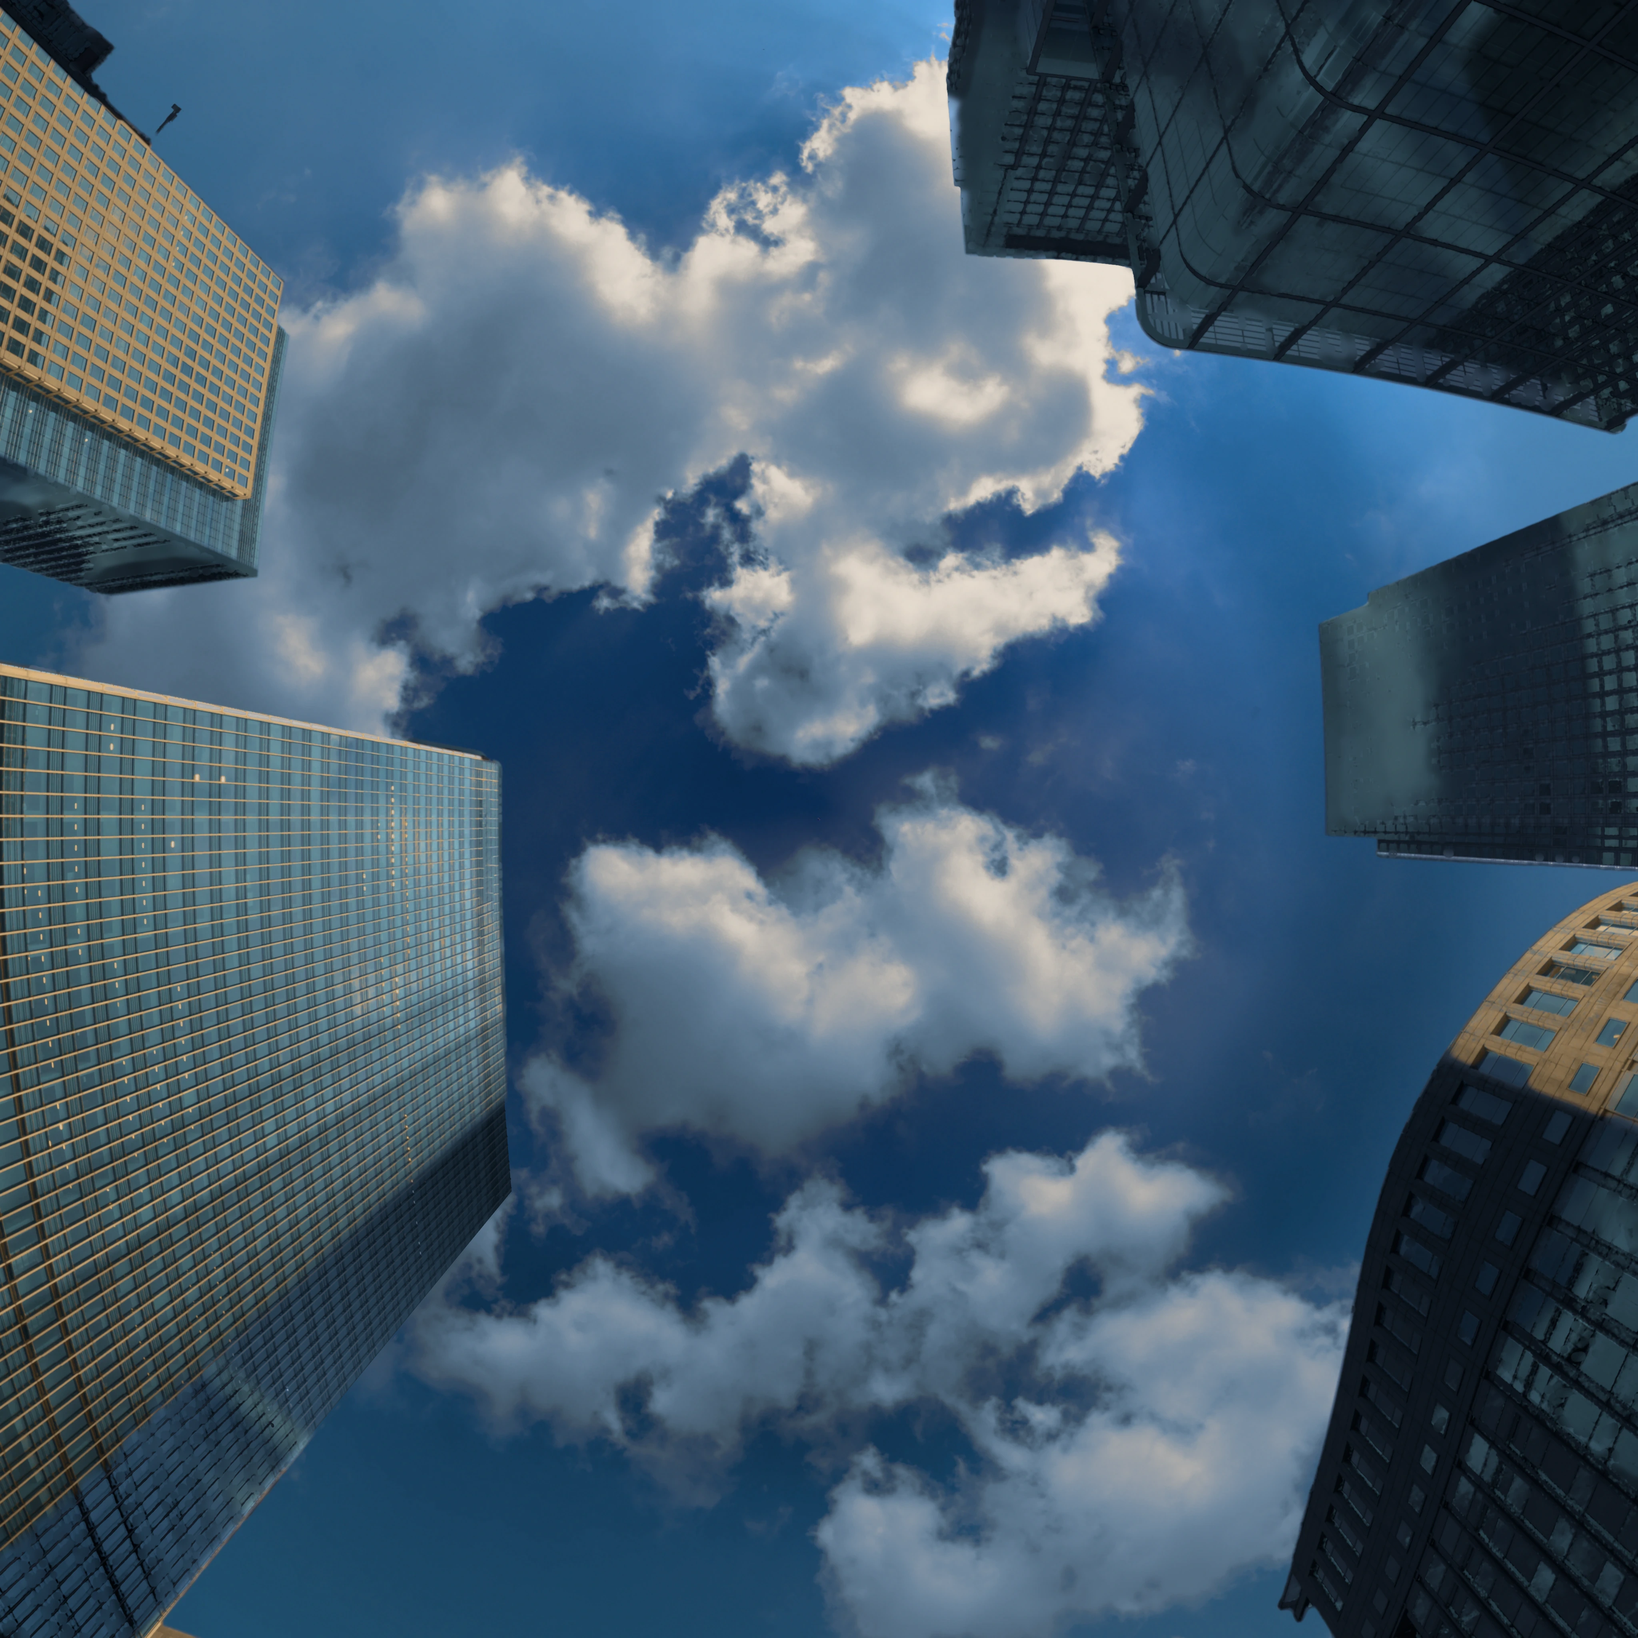
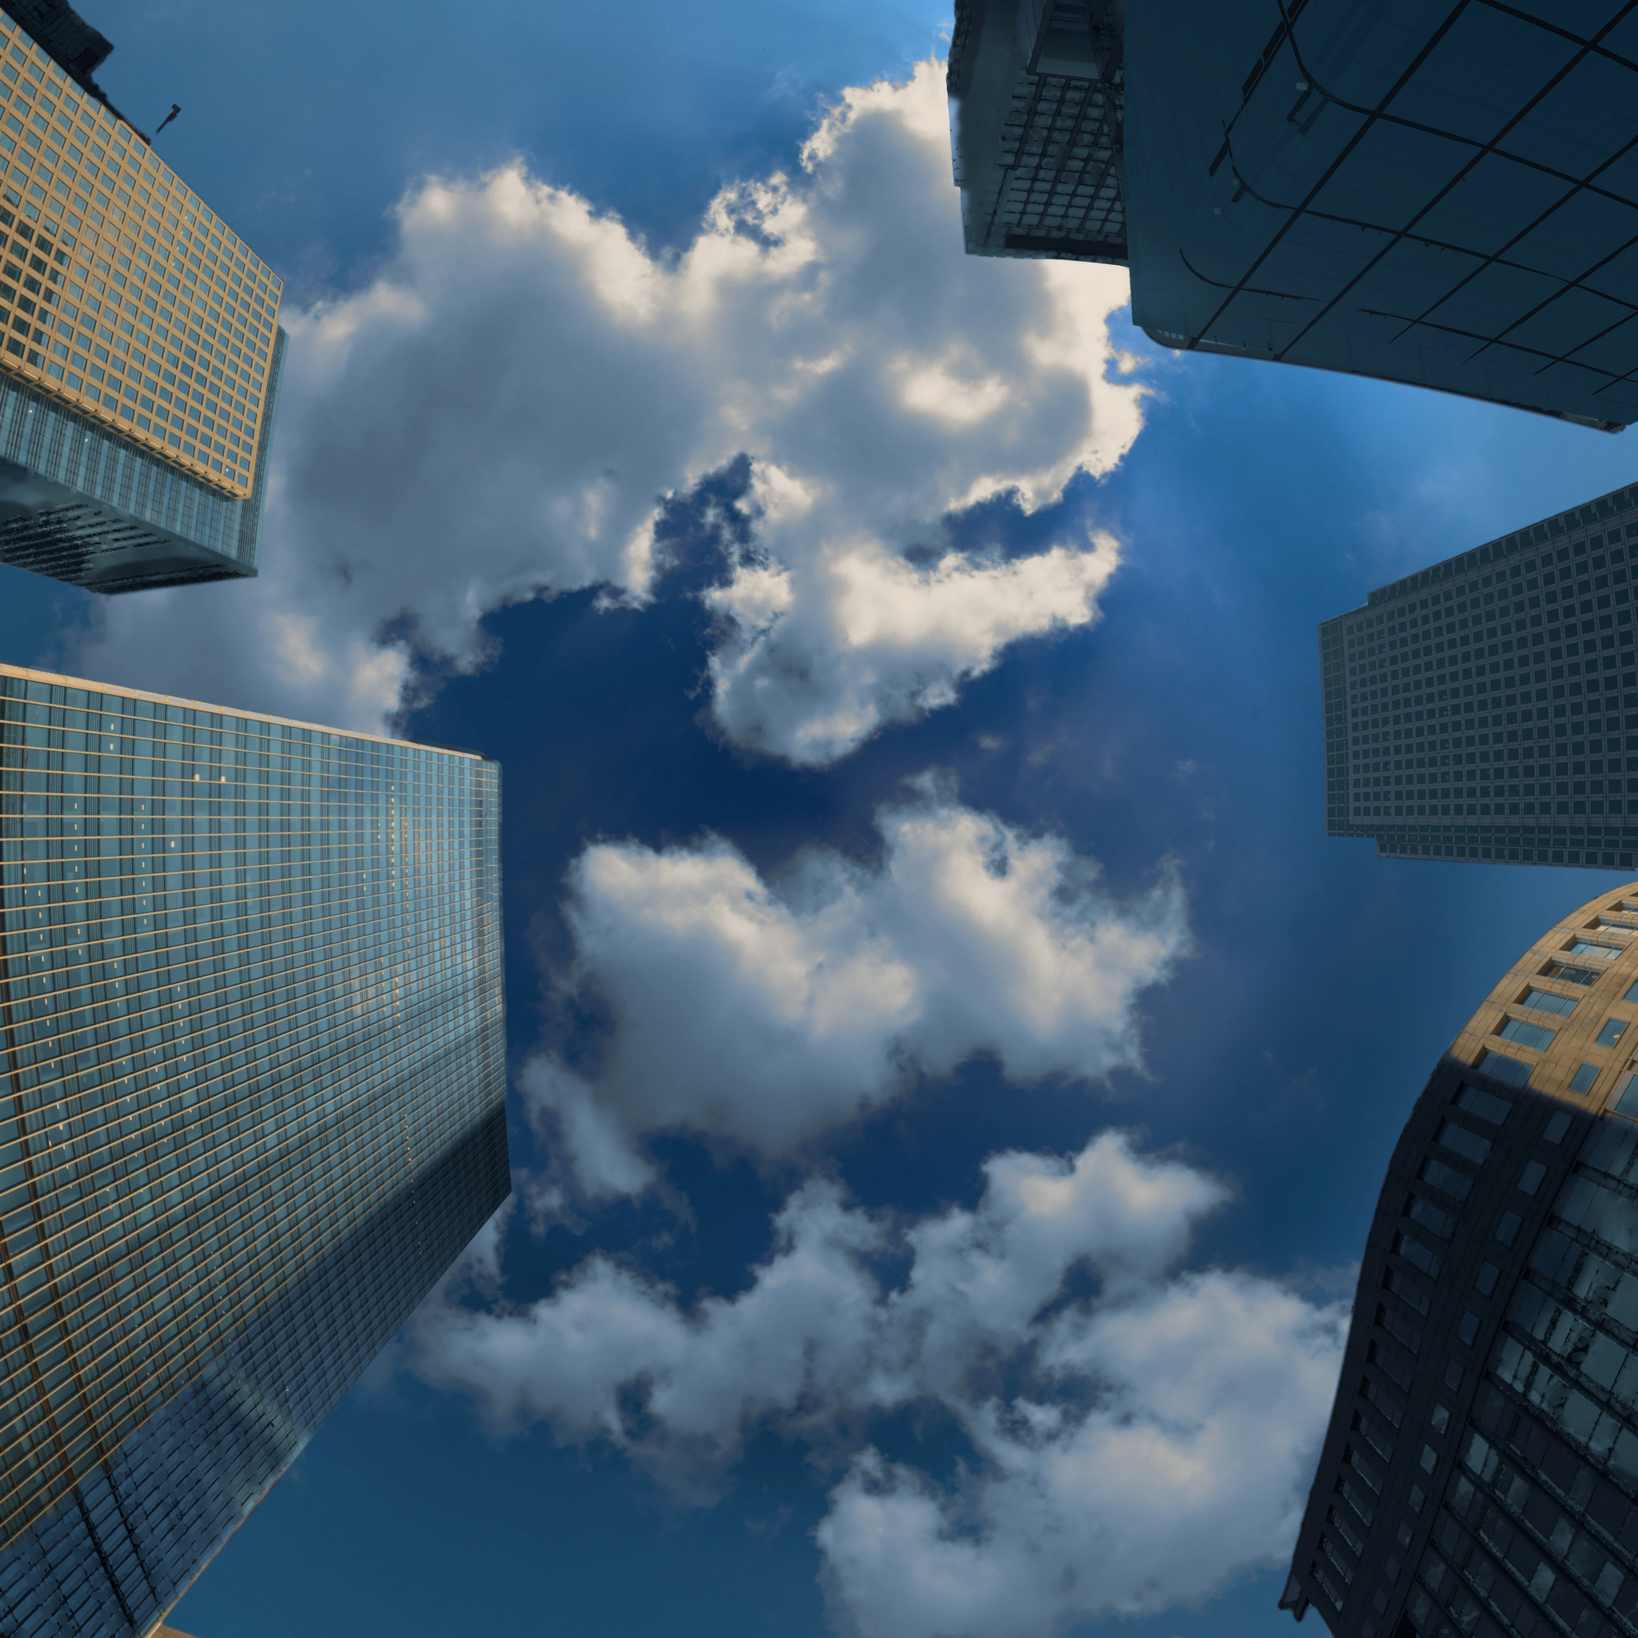
Lab: climb focal-length round 1
Claude-Session: https://claude.ai/code/session_01RqENhngNCzDFmJWDZueXGV

diff --git a/tools/depth/bakes/focal-length/glass_faces.py b/tools/depth/bakes/focal-length/glass_faces.py
@@ -1,0 +1,321 @@
+# The plate pass after face_cap.py: the same clean-3D repair, on the two
+# towers to the right of the sky.
+#
+#   A  the dark tower at right-middle (a grid facade of square windows, its
+#      crown toward the centre at about az 90, rho 0.33..0.8), and
+#   B  the curved glass tower above it at top-right, whose rounded crown
+#      and canopy (the "glass soffit" across the top-right of the 14 and
+#      20 mm frames) carry the big structural frames.
+#
+# regrade_towers.py made their shade faces a mirror, and on these two it
+# went wrong the way it did on the curved tower's flank: each pane took the
+# plate in its own mirror direction, modulated by its own texture, so the
+# reflected cumulus and the towers opposite lay on them as grey-blue blotches
+# and smears, and A's window grid dissolved into mottle. Here both faces are
+# rebuilt from the native 16K capture, sampled straight into each plate's
+# own geometry (area-averaged, ss x ss taps a pixel), so the frame and floor
+# grid is the capture's own and stays sharp all the way across.
+#
+# The tone is one smooth field per face, not per pane:
+#   body    the old face's light, as a robust quadratic of log light against
+#           rho (the blotches are outliers to it), in the cobalt-teal of the
+#           curved tower's rebuilt flank, so all three shade faces agree;
+#   frames  the capture's own frame/fin matte in a greyer cobalt, carrying
+#           the capture's texture: A's stone frame lighter than its windows,
+#           B's structural fins darker than its glass, as lines on it;
+#   glass   the capture's pane texture compressed hard (texture ** gG), so
+#           what each pane happened to reflect in London is gone, plus one
+#           coherent mirror of the sky: the sky alone (the plate with every
+#           tower pushed out and the hole filled from the sky round it),
+#           read in the face's mirror direction (zenith angle kept, azimuth
+#           mirrored in the face normal), softened, and weighted by Schlick
+#           Fresnel for that incidence, so it is strongest toward the crowns
+#           where the view grazes the glass and fades down the tower.
+# The silhouettes are the published ones: the rebuild sits inside the
+# capture's own tower matte, choked a little, inside a hand polygon per tower
+# that keeps it off its neighbours, with foliage left out.
+#
+# python3 -I glass_faces.py outer_in.webp inner_in.webp canary_wharf_16k.hdr \
+#     outer_out.webp inner_out.webp ['{params}'] [debug_prefix]
+# Run it on face_cap.py's outer.webp and inner.webp (the published plates).
+import sys, json, numpy as np, cv2
+from PIL import Image
+
+LUMA = np.array([0.2126, 0.7152, 0.0722], np.float32)
+P = dict(q=93, TM=95.0, RI=0.5, ssO=4, ssI=2, thr=1.6, chokeO=2.0,
+         # cobalt-teal of the curved tower's rebuilt flank (measured there)
+         flankAz=(-47.0, -40.0), flankR=(0.45, 0.85),
+         sky_sig=3.0, R0=0.06, mirror=0.6, mGam=0.75, coat=0.7, holeA=5000,
+         teal=0.6, tealC=(0.30, 1.12, 1.30))
+# Per tower. poly: outer-plate px; nAz: face normal azimuth (None: follows
+# the view azimuth, clamped to nLo..nHi, round B's rounded corner); Lsig:
+# the large-scale light the texture is taken round (deg); gG / frameT: how
+# much of the capture's texture the glass / the frames keep; lift (stops)
+# and grad (share of the old face's slope down the tower) set the body
+# light; frame: frame light over the body (A's stone lighter, B's fins
+# darker); mT / mLoc / mFin: the frame mattes (an unused one sits past 9).
+TW = {
+    'A': dict(poly=[[2640, 1750], [3600, 1440], [3640, 1440], [3642, 2056], [3300, 2066], [3160, 2086],
+                    [3070, 2112], [3020, 2150], [2640, 2150]],
+              nAz=90.0, nLo=90.0, nHi=90.0, Lsig=0.9, gG=0.25, lift=-0.3, deg=1, grad=0.4, mirror=1.3,
+              mT=(0.92, 1.12), mLoc=(9.0, 9.5), mFin=(5.0, 9.0, 9.5),
+              frame=2.4, frameT=0.6, mDesat=0.25),
+    'B': dict(poly=[[2432, 628], [2546, 580], [2822, 628], [3086, 688], [3338, 844], [3518, 988], [3674, 1204],
+                    [3734, 1384], [3362, 1408], [3062, 1558], [2438, 1432], [2426, 1240]],
+              nAz=None, nLo=112.0, nHi=165.0, Lsig=1.6, gG=0.2, lift=-0.55, deg=1, grad=0.8, mirror=3.0,
+              mT=(9.0, 9.5), mLoc=(9.0, 9.5), mFin=(6.0, 0.2, 0.4), finOpen=1.0, finA=2500,
+              denSig=10.0, den=(0.22, 0.32), finLen=45, latAz=(140.0, 148.0),
+              frame=0.4, frameT=0.3, mDesat=0.2),
+}
+args = sys.argv[1:]
+DBG = ''
+if len(args) > 5 and args[5].startswith('{'):
+    js = json.loads(args[5])
+    for k, v in js.items():
+        if k in TW: TW[k].update(v)
+        else: P[k] = v
+    DBG = args[6] if len(args) > 6 else ''
+elif len(args) > 5:
+    DBG = args[5]
+
+s2l = lambda v: np.where(v <= 0.04045, v / 12.92, ((v + 0.055) / 1.055) ** 2.4).astype(np.float32)
+def l2s(v):
+    v = np.clip(v, 0, 1)
+    return np.where(v <= 0.0031308, v * 12.92, 1.055 * np.power(v, 1 / 2.4) - 0.055)
+def smooth(a, b, x):
+    t = np.clip((x - a) / (b - a), 0, 1); return t * t * (3 - 2 * t)
+
+# ---- the native capture, cropped to az 55..205, theta 0..93
+hdr = cv2.imread(args[2], cv2.IMREAD_UNCHANGED)
+HH, WW = hdr.shape[:2]
+U0, U1 = int(55 / 360 * WW), int(205 / 360 * WW)
+CAP = np.ascontiguousarray(hdr[:int(93 / 180 * HH), U0:U1, ::-1]).astype(np.float32)
+del hdr
+def native(rho, azd):
+    th = rho * P['TM']
+    mu = ((azd % 360) / 360 * WW - 0.5 - U0).astype(np.float32)
+    mv = (th / 180 * HH - 0.5).astype(np.float32)
+    return cv2.remap(CAP, mu, mv, cv2.INTER_LINEAR, borderMode=cv2.BORDER_REPLICATE)
+
+O8 = np.asarray(Image.open(args[0]).convert('RGB')).copy()
+I8 = np.asarray(Image.open(args[1]).convert('RGB')).copy()
+Olin = s2l(O8.astype(np.float32) / 255); Ilin = s2l(I8.astype(np.float32) / 255)
+N = O8.shape[0]
+
+def grid(NN, sc, x0, y0, x1, y1, ox=0.5, oy=0.5):
+    gx = (np.arange(x0, x1) + ox) / NN * 2 - 1; gy = (np.arange(y0, y1) + oy) / NN * 2 - 1
+    a = gx[None, :] * sc + 0 * gy[:, None]; b = gy[:, None] * sc + 0 * gx[None, :]
+    return np.hypot(a, b), np.degrees(np.arctan2(a, b))
+
+# ---- shared cobalt-teal: the chroma of the curved tower's rebuilt flank
+M = 1024
+rhoM, azM = grid(M, 1.0, 0, 0, M, M)
+Osm = cv2.resize(Olin, (M, M), interpolation=cv2.INTER_AREA)
+fl = (azM > P['flankAz'][0]) & (azM < P['flankAz'][1]) & (rhoM > P['flankR'][0]) & (rhoM < P['flankR'][1])
+pf = Osm[fl]
+glassC = np.median(pf / (pf @ LUMA + 1e-6)[:, None], 0).astype(np.float32)
+glassC /= float(glassC @ LUMA)
+print('flank cobalt-teal', glassC)
+
+# ---- the sky alone, for the mirror: sky where the capture is sky, pushed
+# into the towers with a normalised-convolution pyramid
+def pushpull(img, w):
+    if min(img.shape[:2]) < 8:
+        m = (img * w[..., None]).sum((0, 1)) / max(w.sum(), 1e-6)
+        return np.broadcast_to(m, img.shape).astype(np.float32)
+    h, wd = img.shape[:2]
+    num = cv2.pyrDown(img * w[..., None]); den = cv2.pyrDown(w)
+    sub = num / np.maximum(den, 1e-6)[..., None]
+    c = pushpull(sub, np.minimum(den * 4, 1))
+    up = cv2.pyrUp(c, dstsize=(wd, h))
+    return img * w[..., None] + up * (1 - w[..., None])
+hdr = cv2.imread(args[2], cv2.IMREAD_UNCHANGED)
+small = cv2.resize(hdr[:int(96 / 180 * HH), :, ::-1].astype(np.float32), (2048, int(96 / 180 * 1024)), interpolation=cv2.INTER_AREA)
+del hdr
+mu = ((azM % 360) / 360 * 2048 - 0.5).astype(np.float32); mv = (rhoM * P['TM'] / 180 * 1024 - 0.5).astype(np.float32)
+Ysm = cv2.remap(small, mu, mv, cv2.INTER_LINEAR, borderMode=cv2.BORDER_REPLICATE) @ LUMA
+del small
+skyW = ((Ysm > P['thr']) & (rhoM < 0.93)).astype(np.uint8)
+skyW = cv2.erode(skyW, np.ones((5, 5), np.uint8)).astype(np.float32)
+SKY = pushpull(Osm, skyW)
+SKY = cv2.GaussianBlur(SKY, (0, 0), P['sky_sig'])
+print('sky share', float(skyW[rhoM < 0.93].mean()))
+def sky_at(rho, azd):
+    r = np.clip(rho, 0, 0.93); a = r * np.sin(np.radians(azd)); b = r * np.cos(np.radians(azd))
+    return cv2.remap(SKY, ((a + 1) / 2 * M - 0.5).astype(np.float32), ((b + 1) / 2 * M - 0.5).astype(np.float32),
+                     cv2.INTER_LINEAR, borderMode=cv2.BORDER_REPLICATE)
+
+def poly_in(poly, NN, sc):
+    p = (np.array(poly, np.float64) - N / 2) / sc * (NN / N) + NN / 2
+    return p
+
+# ---- the tone of each face: a robust profile of the old face against rho
+def profile(t):
+    pts = poly_in(t['poly'], N, 1.0)
+    x0, y0 = np.floor(pts.min(0)).astype(int); x1, y1 = np.ceil(pts.max(0)).astype(int)
+    pm = np.zeros((y1 - y0, x1 - x0), np.uint8)
+    cv2.fillPoly(pm, [np.round(pts - [x0, y0]).astype(np.int32)], 1)
+    rho, azd = grid(N, 1.0, x0, y0, x1, y1)
+    Yn = native(rho, azd) @ LUMA
+    old = Olin[y0:y1, x0:x1]
+    sel = (pm > 0) & (Yn < P['thr'] * 0.7)
+    r = rho[sel]; lt = np.log(old[sel] @ LUMA + 1e-5)
+    rb = np.arange(r.min(), r.max(), 0.01)
+    rr, mm = [], []
+    for v in rb:
+        k = (r >= v) & (r < v + 0.01)
+        if k.sum() > 200: rr.append(v + 0.005); mm.append(np.median(lt[k]))
+    rr = np.array(rr); mm = np.array(mm)
+    k = np.ones(len(rr), bool)
+    for _ in range(4):
+        ct = np.polyfit(rr[k], mm[k], t['deg'])
+        rs = mm - np.polyval(ct, rr)
+        k = np.abs(rs) < 2.0 * np.median(np.abs(rs[k])) + 1e-3
+    lo, hi = rr[0], rr[-1]
+    # keep the fitted mean, but only part of its slope down the tower
+    mid = float(np.mean(rr)); y0f = np.polyval(ct, mid)
+    ct = np.array([ct[0] * t['grad'], y0f - ct[0] * t['grad'] * mid]) if t['deg'] == 1 else ct
+    print('profile', ct, 'rho', lo, hi, 'Y at ends', np.exp(np.polyval(ct, [lo, hi])))
+    return lambda rho: np.exp(np.polyval(ct, np.clip(rho, lo, hi)) + t['lift'] * np.log(2))
+for t in TW.values(): t['TGT'] = profile(t)
+
+def blurN(img, w, sig):
+    num = cv2.GaussianBlur(img * w, (0, 0), sig); den = cv2.GaussianBlur(w, (0, 0), sig)
+    return num / np.maximum(den, 1e-6)
+
+def rebuild(lin, NN, sc, ss, t, name):
+    pts = poly_in(t['poly'], NN, sc)
+    x0, y0 = np.maximum(np.floor(pts.min(0)).astype(int) - 4, 0)
+    x1, y1 = np.minimum(np.ceil(pts.max(0)).astype(int) + 4, NN)
+    if x1 <= x0 + 8 or y1 <= y0 + 8: return lin, None
+    pm = np.zeros((y1 - y0, x1 - x0), np.uint8)
+    cv2.fillPoly(pm, [np.round(pts - [x0, y0]).astype(np.int32)], 1)
+    acc = 0
+    for oy in range(ss):
+        for ox in range(ss):
+            rho, azd = grid(NN, sc, x0, y0, x1, y1, (ox + 0.5) / ss, (oy + 0.5) / ss)
+            acc = acc + native(rho, azd)
+    S = acc / (ss * ss)
+    rho, azd = grid(NN, sc, x0, y0, x1, y1)
+    pxdeg = NN / 2 / sc / P['TM']  # plate px per degree (radially)
+    Ys = np.maximum(S @ LUMA, 1e-5)
+    tower = (Ys < P['thr']).astype(np.uint8)
+    # the plane trees: clearly green, in blobs (teal glass is never this green)
+    foli = ((S[..., 1] > 1.15 * S[..., 0]) & (S[..., 1] > 1.15 * S[..., 2])).astype(np.uint8)
+    foli = cv2.morphologyEx(foli, cv2.MORPH_OPEN, np.ones((3, 3), np.uint8))
+    foli = cv2.dilate(foli, np.ones((5, 5), np.uint8))
+    tower = cv2.morphologyEx(tower, cv2.MORPH_OPEN, np.ones((3, 3), np.uint8))
+    # bright panes (glass catching the overcast) are holes in that matte, not
+    # sky: any island of 'sky' smaller than holeA (outer px) is tower
+    nl, lab, stats, _ = cv2.connectedComponentsWithStats((1 - tower) * pm, connectivity=8)
+    small = stats[:, cv2.CC_STAT_AREA] < P['holeA'] * ((NN / N) / sc) ** 2
+    small[0] = False
+    hole = small[lab] & (pm > 0)
+    tower = np.maximum(tower, hole.astype(np.uint8))
+    ch = max(int(round(P['chokeO'] * (NN / N) / sc)), 1)
+    core = cv2.erode(tower * (1 - foli) * pm, np.ones((2 * ch + 1, 2 * ch + 1), np.uint8)).astype(np.float32)
+    al = cv2.GaussianBlur(core, (0, 0), 0.6 * max((NN / N) / sc, 1)) * (cv2.dilate(core, np.ones((3, 3), np.uint8)) > 0)
+    # texture round the capture's own large-scale light
+    W = tower.astype(np.float32) * (1 - foli) * (1 - hole)
+    L = blurN(Ys, W, t['Lsig'] * pxdeg)
+    T = Ys / np.maximum(L, 1e-5)
+    loc = blurN(Ys, W, 1.5 * (NN / N) / sc)
+    m = np.maximum(smooth(t['mT'][0], t['mT'][1], T), smooth(t['mLoc'][0], t['mLoc'][1], Ys / np.maximum(loc, 1e-5)))
+    # B's structural fins. In the capture they are the brightest ridges on
+    # the face, a few px wide, while the grid of the tower opposite that its
+    # glass reflects is thinner and fainter. So: an opening of finOpen px
+    # takes out everything thinner than the fins, a white top-hat of radius
+    # fs (log light) finds what is left as ridges, a high threshold keeps
+    # the fins, and only connected pieces of at least finA px survive, so
+    # the fin network stays whole round the rounded corner and stray bright
+    # bits of reflection drop out.
+    fs, f0, f1 = t['mFin']
+    if f0 < 5:
+        sx = (NN / N) / sc
+        ell = lambda r: cv2.getStructuringElement(cv2.MORPH_ELLIPSE, (2 * r + 1, 2 * r + 1))
+        lg = np.log(Ys + 1e-4).astype(np.float32)
+        lg = cv2.morphologyEx(lg, cv2.MORPH_OPEN, ell(max(int(round(t['finOpen'] * sx)), 1)))
+        th_ = lg - cv2.morphologyEx(lg, cv2.MORPH_OPEN, ell(max(int(round(fs * sx)), 1)))
+        fm = smooth(f0, f1, th_)
+        nl, lab, stats, _ = cv2.connectedComponentsWithStats((fm > 0.3).astype(np.uint8), connectivity=8)
+        big = stats[:, cv2.CC_STAT_AREA] >= t['finA'] * sx * sx
+        big[0] = False
+        keep = cv2.dilate(big[lab].astype(np.uint8), np.ones((3, 3), np.uint8)).astype(np.float32)
+        keep = cv2.GaussianBlur(keep, (0, 0), 0.7 * sx)
+        # where the glass reflects the grid of the tower opposite, ridges sit
+        # densely (a lattice); fins alone are sparse. There keep only what
+        # runs straight on for finLen px (the fins crossing that stretch).
+        dens = cv2.GaussianBlur((fm > 0.3).astype(np.float32), (0, 0), t['denSig'] * sx)
+        lat = smooth(t['den'][0], t['den'][1], cv2.GaussianBlur(dens, (0, 0), t['denSig'] * sx))
+        # only across the stretch that reflects the tower opposite; round the
+        # rounded corner the dense ridges are the corner's own mullions
+        lat = lat * smooth(t['latAz'][1], t['latAz'][0], azd)
+        Lp = max(int(round(t['finLen'] * sx)), 3)
+        lines = np.zeros_like(fm)
+        for ang in np.arange(0, 180, 7.5):
+            k = np.zeros((2 * Lp + 1, 2 * Lp + 1), np.uint8)
+            c, s_ = np.cos(np.radians(ang)), np.sin(np.radians(ang))
+            cv2.line(k, (int(round(Lp - Lp * c)), int(round(Lp - Lp * s_))), (int(round(Lp + Lp * c)), int(round(Lp + Lp * s_))), 1, 1)
+            lines = np.maximum(lines, cv2.morphologyEx(fm, cv2.MORPH_OPEN, k))
+        fm = fm * keep * (1 - lat) + lines * lat
+        m = np.maximum(m, fm * (1 - hole))
+        if DBG: Image.fromarray((np.concatenate([dens, lat, fm], 1) * 255).astype(np.uint8)).save(f'{DBG}{name}_fin.png')
+    m = m * (1 - smooth(0.0, 1.0, cv2.GaussianBlur(hole.astype(np.float32), (0, 0), 0.7)))
+    T = np.where(hole, 1.0, T)
+    m = m[..., None]
+    base = t['TGT'](rho)[..., None]
+    Tg = np.clip(T, 0.35, 2.5) ** t['gG']
+    Tm = np.clip(T, 0.35, 2.5) ** t['frameT']
+    mullC = glassC + (1 - glassC) * t['mDesat']; mullC = mullC / float(mullC @ LUMA)
+    gC = glassC * (1 - P['teal']) + np.array(P['tealC'], np.float32) * P['teal']; gC = gC / float(gC @ LUMA)
+    body = base * gC * Tg[..., None]
+    frame = base * t['frame'] * mullC * Tm[..., None]
+    # hold the face's median light on the old profile (times 2^lift)
+    D = (body * (1 - m) + frame * m) @ LUMA
+    inn = core > 0
+    k = float(np.median(D[inn] / base[..., 0][inn])) if inn.any() else 1.0
+    body /= k; frame /= k
+    # the mirror: zenith angle kept, azimuth mirrored in the face normal
+    nAz = t['nAz'] if t['nAz'] is not None else np.clip(azd, t['nLo'], t['nHi'])
+    if t['nAz'] is None:
+        # soft clamp, so the normal turns smoothly round the rounded corner
+        nAz = cv2.GaussianBlur(nAz.astype(np.float32), (0, 0), 20 * (NN / N) / sc)
+    azr = 180 + 2 * nAz - azd
+    th = np.radians(rho * P['TM'])
+    cosi = np.clip(np.sin(th) * np.abs(np.cos(np.radians(azd - nAz))), 0, 1)
+    Fr = P['R0'] + (1 - P['R0']) * (1 - cosi) ** 5
+    sk = sky_at(rho, azr)
+    skY = sk @ LUMA
+    # restrain the mirror: the cloud tops compressed toward the sky's own light
+    skm = np.median(SKY.reshape(-1, 3) @ LUMA)
+    comp = (np.maximum(skY, 1e-5) / skm) ** P['mGam'] * skm / np.maximum(skY, 1e-5)
+    refl = (sk * comp[..., None]) * (P['mirror'] * t['mirror'] * Fr)[..., None]
+    # the coating tints what it reflects toward the face's cobalt-teal
+    refl = refl * (1 - P['coat'] + P['coat'] * gC)
+    glass = body + refl
+    R = glass * (1 - m) + frame * m
+    old = lin[y0:y1, x0:x1]
+    out = R * al[..., None] + old * (1 - al[..., None])
+    res = lin.copy(); res[y0:y1, x0:x1] = out
+    fix = np.zeros(lin.shape[:2], bool); fix[y0:y1, x0:x1] = al > 0.002
+    if inn.any():
+        print(name, 'old Y med', float(np.median(old[inn] @ LUMA)), 'new', float(np.median(R[inn] @ LUMA)),
+              'refl', float(np.median(refl[inn] @ LUMA)))
+    print(name, 'box', (x0, y0, x1, y1), 'px', int((al > 0.5).sum()), 'Fr', float(Fr[al > 0.5].min()), float(Fr[al > 0.5].max()))
+    if DBG:
+        v = lambda z: (l2s(z * 3) * 255).astype(np.uint8)
+        Image.fromarray(np.concatenate([v(old), v(out)], 1)).save(f'{DBG}{name}.png')
+        Image.fromarray((np.concatenate([m[..., 0], al], 1) * 255).astype(np.uint8)).save(f'{DBG}{name}_m.png')
+    return res, fix
+
+Ofix = np.zeros(Olin.shape[:2], bool); Ifix = np.zeros(Ilin.shape[:2], bool)
+for k, t in TW.items():
+    Olin, f = rebuild(Olin, N, 1.0, P['ssO'], t, 'o' + k)
+    if f is not None: Ofix |= f
+    Ilin, f = rebuild(Ilin, I8.shape[0], P['RI'], P['ssI'], t, 'i' + k)
+    if f is not None: Ifix |= f
+o8 = np.where(Ofix[..., None], (l2s(Olin) * 255 + 0.5).astype(np.uint8), O8)
+i8 = np.where(Ifix[..., None], (l2s(Ilin) * 255 + 0.5).astype(np.uint8), I8)
+Image.fromarray(o8).save(args[3], quality=P['q'], method=6)
+Image.fromarray(i8).save(args[4], quality=P['q'], method=6)
+print('rebuilt px outer', int(Ofix.sum()), 'inner', int(Ifix.sum()))
